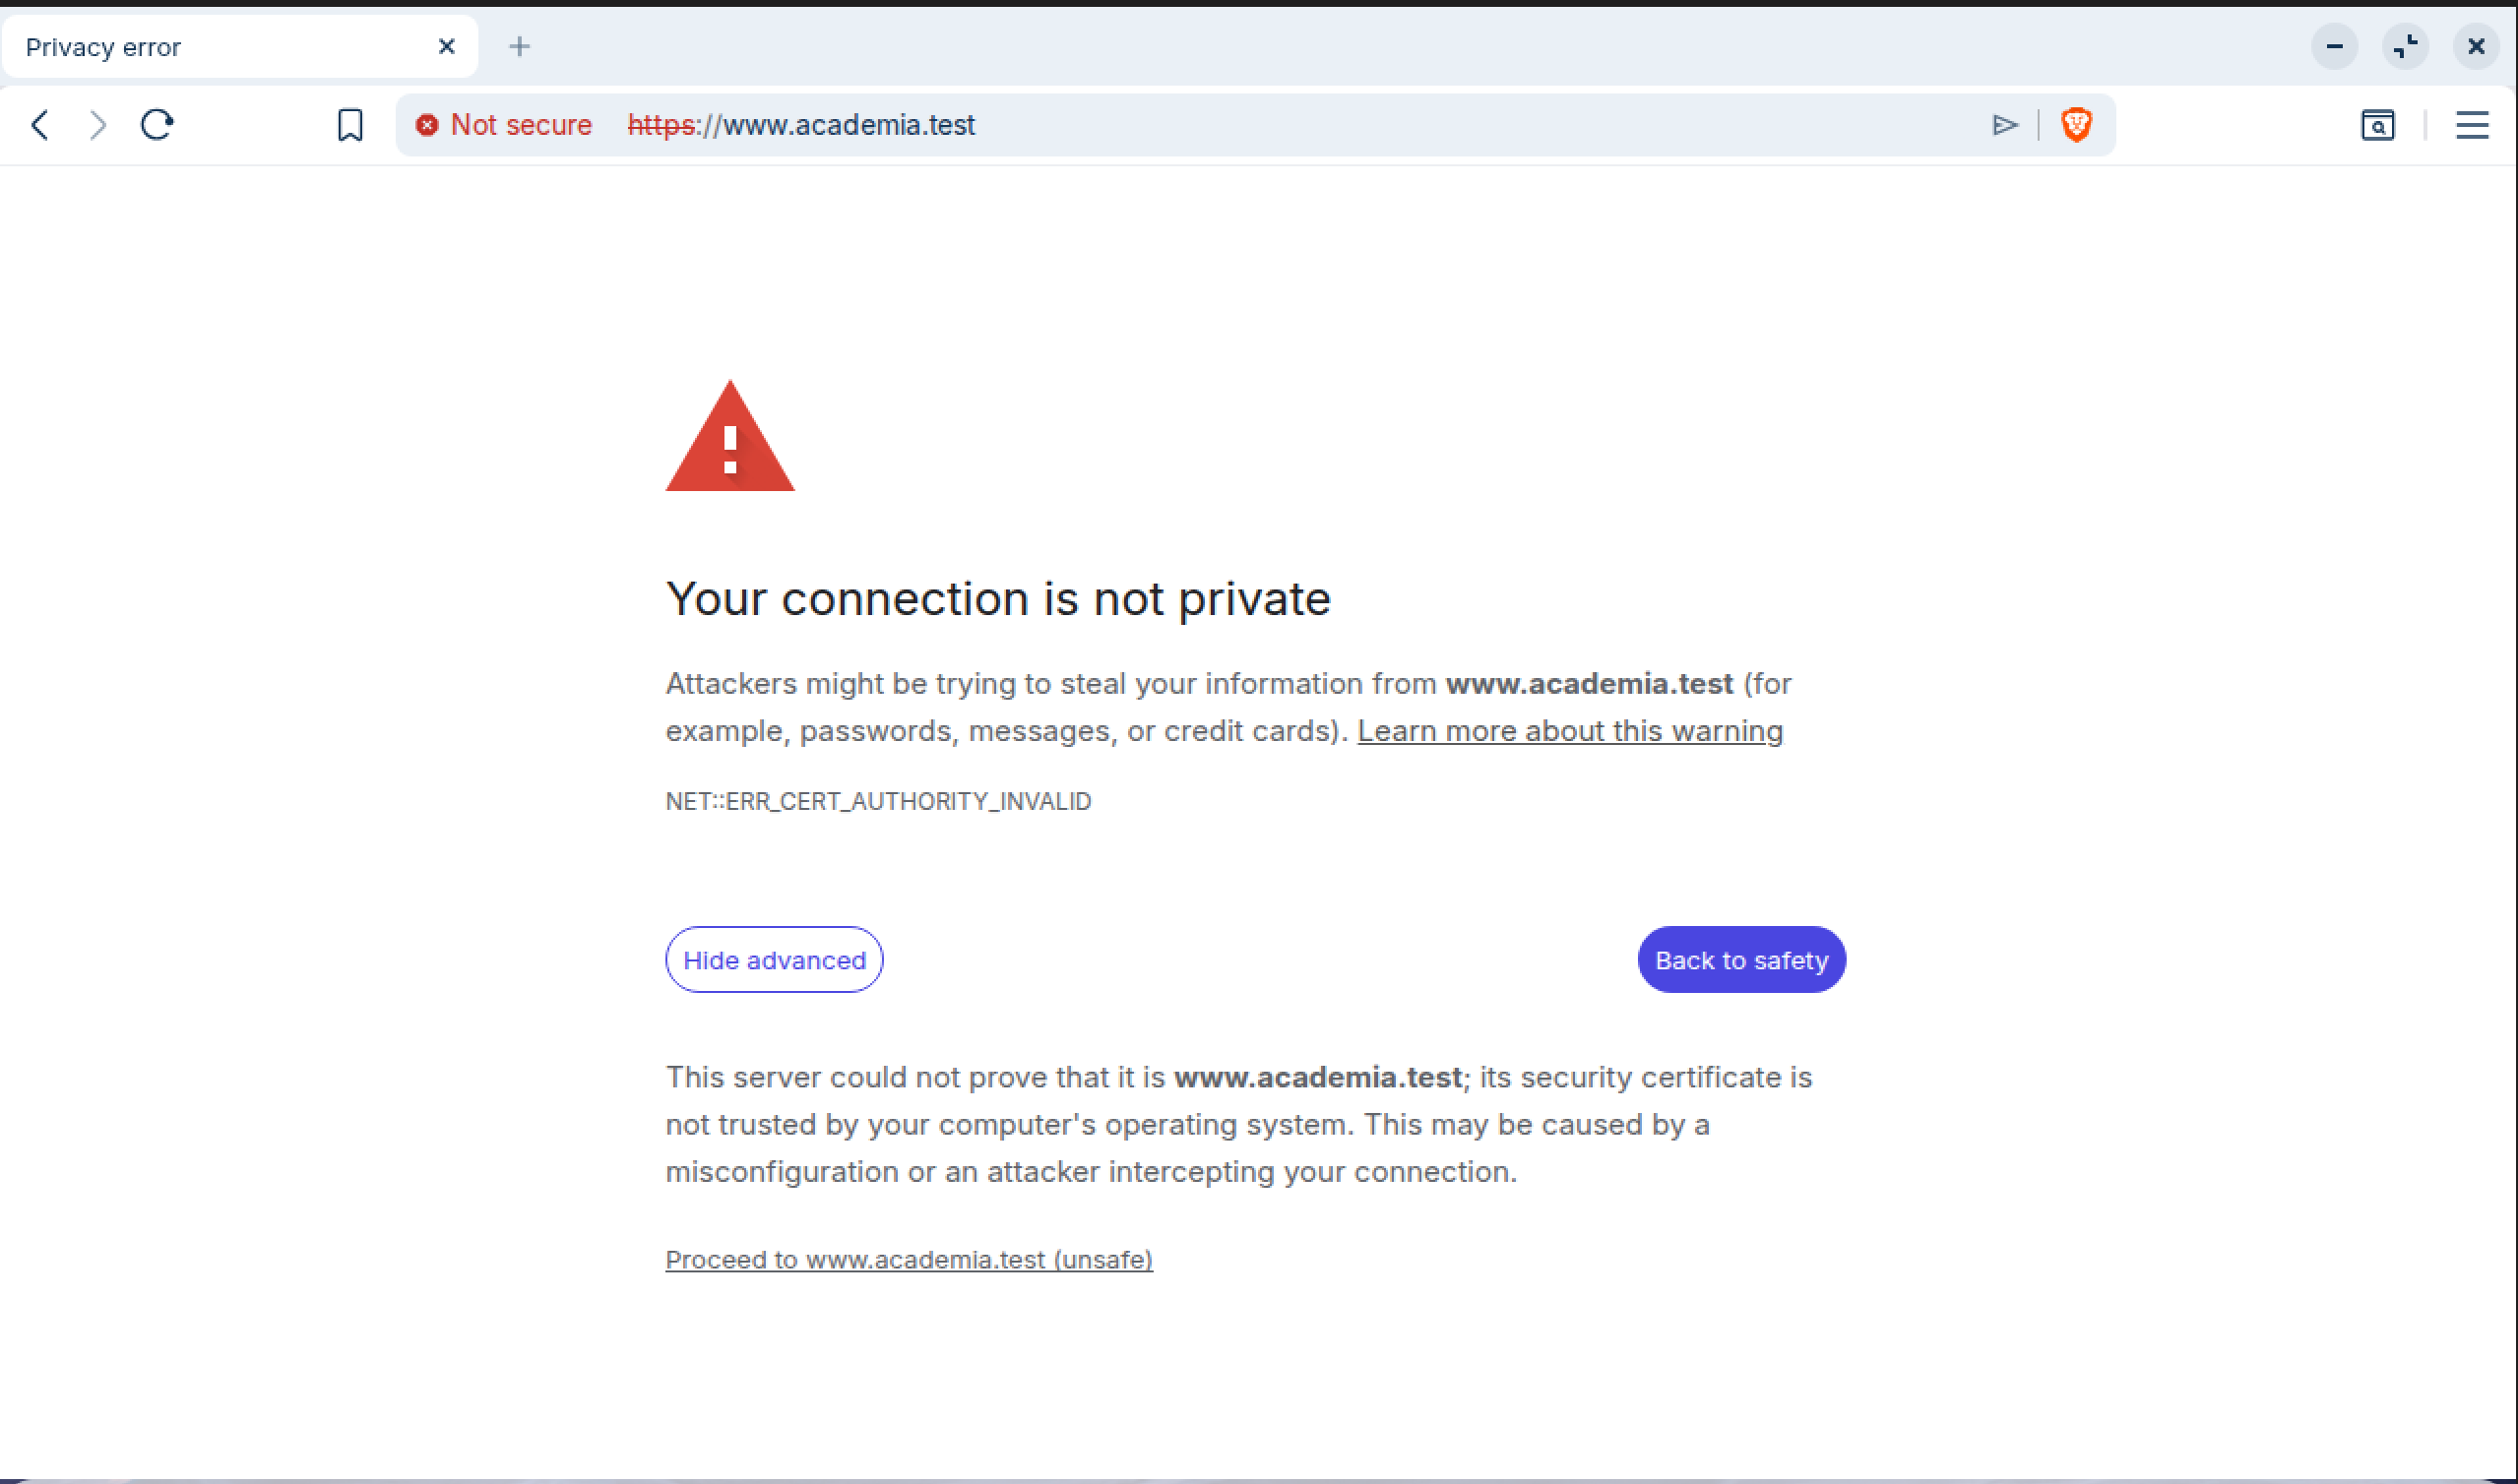
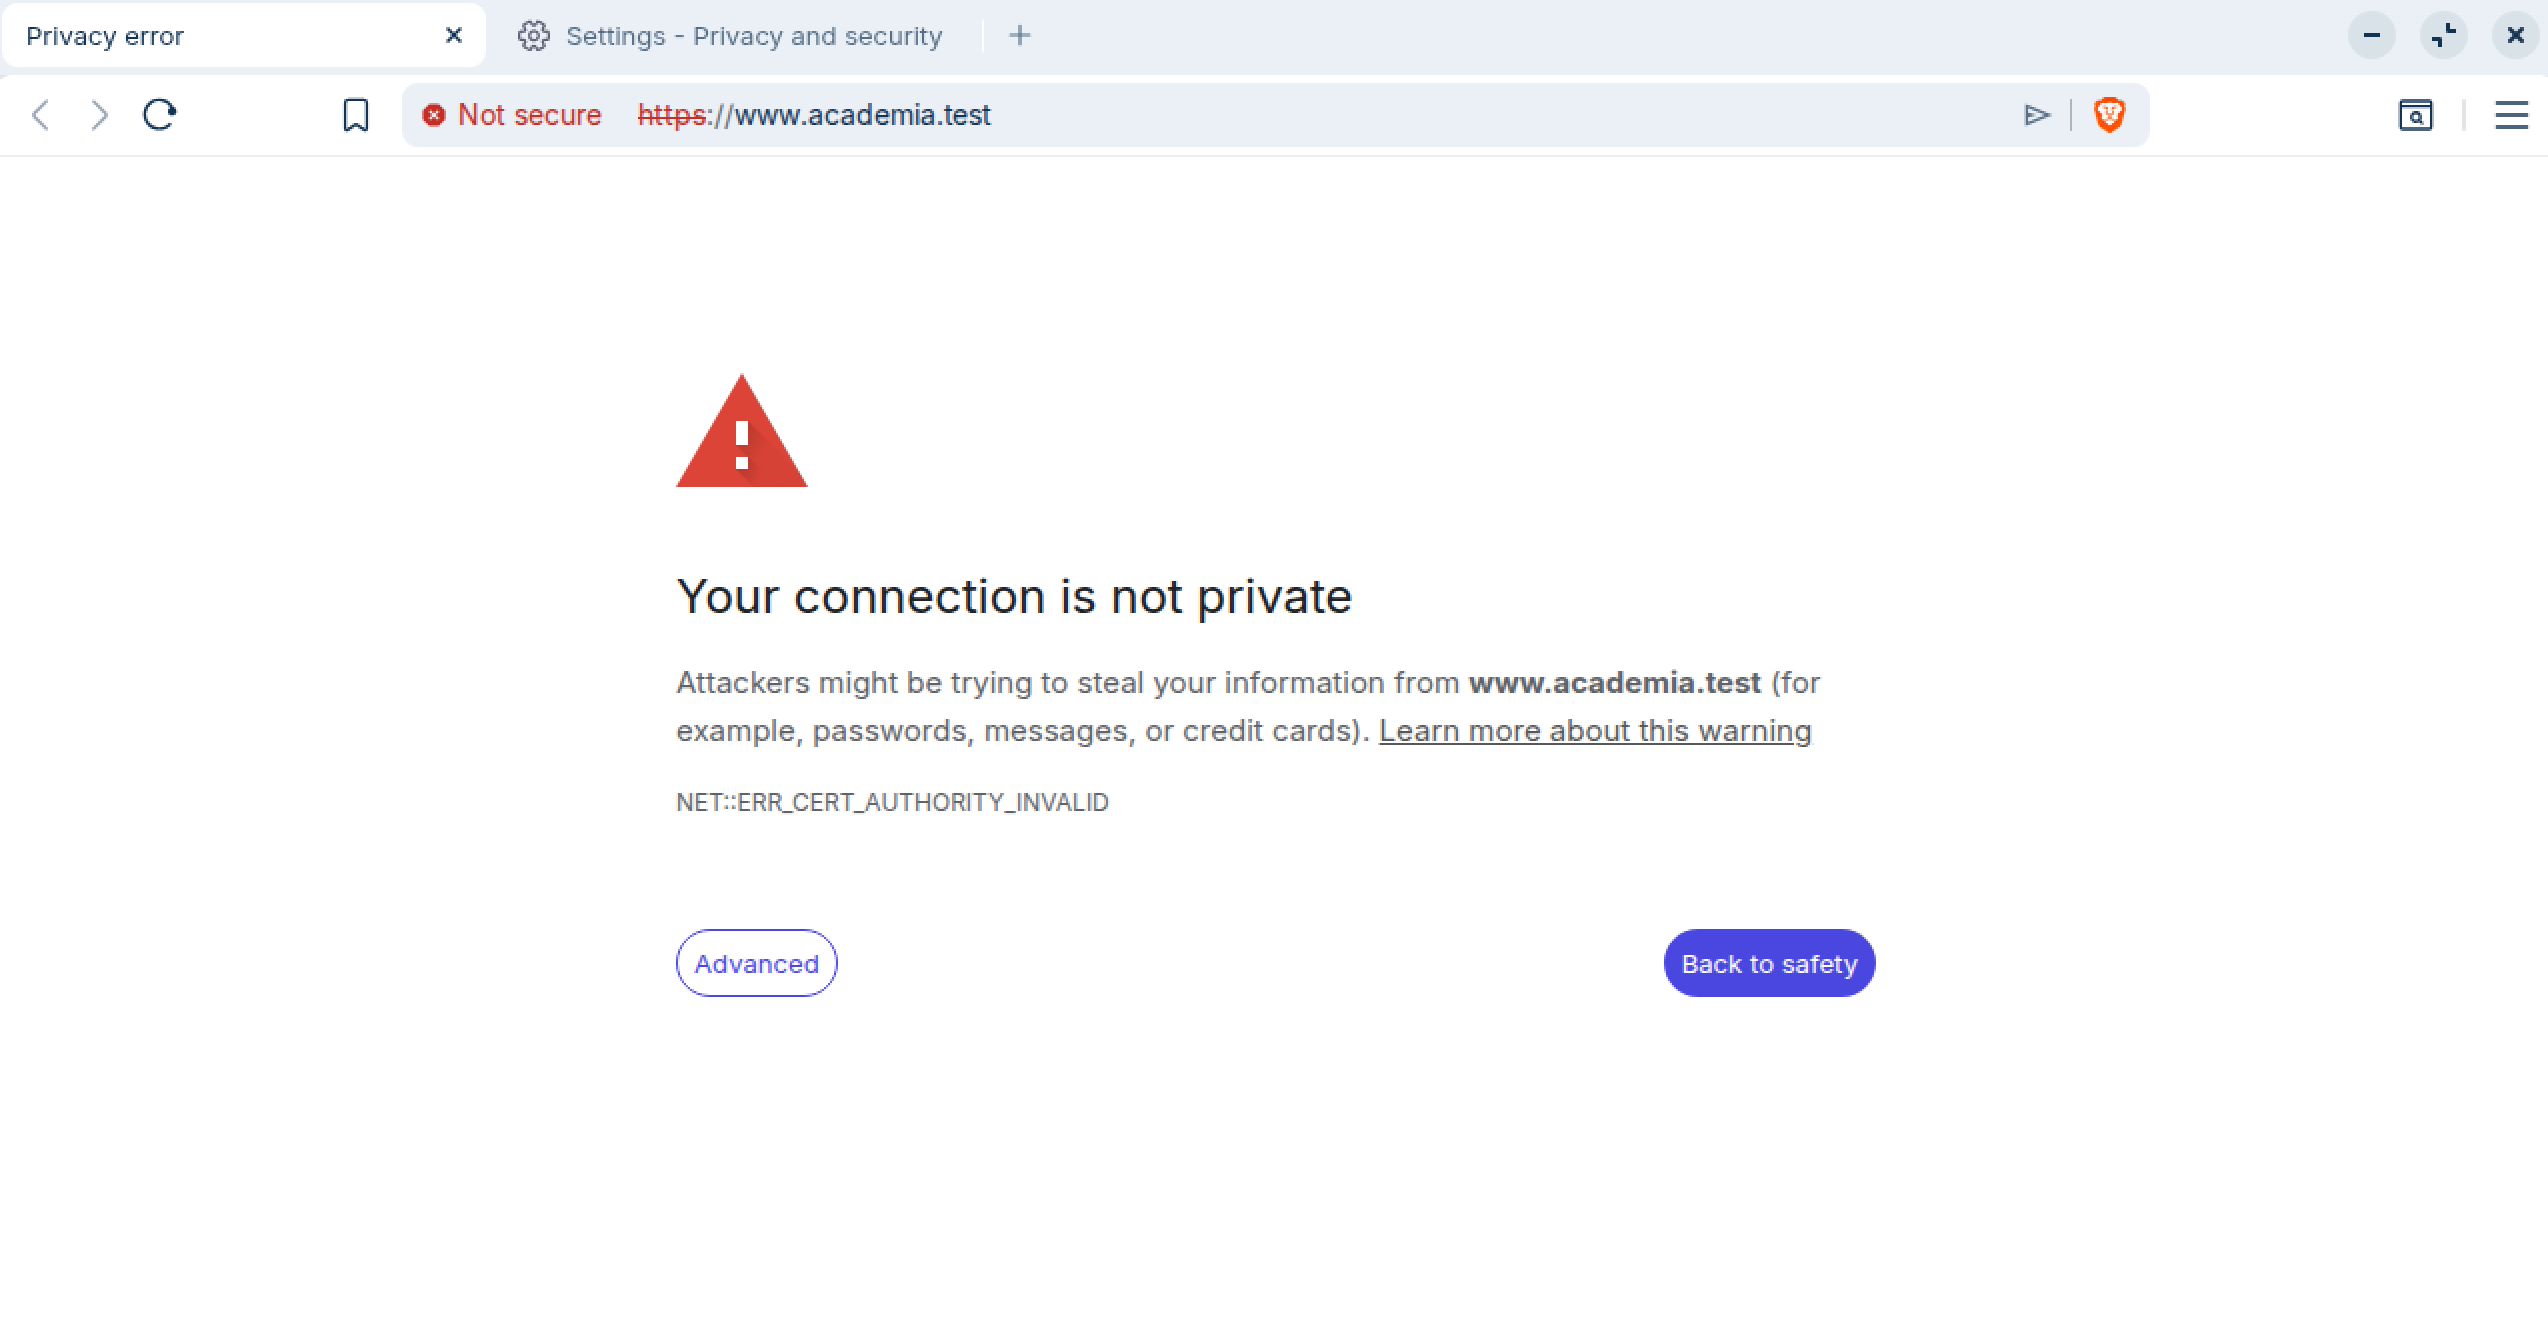
Update instructions for creating and applying SSL certificates in T02 documentation

diff --git a/T02/solucio.md b/T02/solucio.md
@@ -173,7 +173,7 @@ sudo mkdir /var/www/academia/cert && sudo mkdir /var/www/academia/private
 
 Per crear un certificat autosignat per als dominis projectenexus.test i academia.test utilitzarem OpenSSL. El certificat haurà de tenir una duració de 365 dies i una clau RSA de 2048 bits.
 
-**Només es mostrarà la creació de la clau per Projecte Nexus. Cal repetir el procés per Academia.**
+**Només es mostrarà la creació i aplicació de la clau per Projecte Nexus. Cal repetir el procés per Academia.**
 
 ```bash
 sudo openssl req -x509 -nodes -days 365 -newkey rsa:2048 -keyout /var/www/projectenexus/private/projectenexus.key -out /var/www/projectenexus/cert/projectenexus.crt
@@ -197,9 +197,11 @@ sudo a2ensite projectenexus-ssl.conf
 sudo systemctl restart apache2
 ```
 
-Ara configurarem el servidor perquè qualsevol petició HTTP es redirigeixi automàticament a HTTPS:
+**La comanda ``A2ensite`` tambe s'ha de fer amb l'arxiu d' academia**
 
 ## 6. Redirecció HTTPS
+
+Ara configurarem el servidor perquè qualsevol petició HTTP es redirigeixi automàticament a HTTPS:
 
 ```bash
 sudo nano /etc/apache2/sites-available/projectenexus.conf